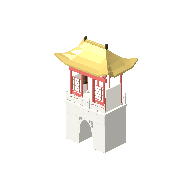
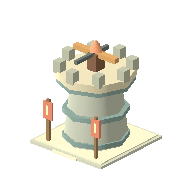
Complete v0.38 visual integration, shared terrain and UI, readable buildings and validation

Changed region(s): [[0.1562, 0.1875, 0.8438, 0.9062]]

diff --git a/XIAN_README.md b/XIAN_README.md
@@ -85,3 +85,12 @@ Credits/licenses are included in the APK and accessible from the sect panel. `na
 - Offline bases use connected perimeters, interior compartments, alternating orientations, paved approaches, lanterns and bamboo/rock scenery. Destroyed wall connections update locally to show breaches. Original local stars persist; the 12 maps have been rearranged.
 - Default village zoom increases from size 48 to 34 (about 41% larger on screen); practice zoom from 64 to 42 (about 52%). Human models increase from 1.6 to 2.15 world units. Practice supports one-finger drag to pan, two-finger pinch to zoom, tap-release deployment, mouse drag/wheel and a full-base overview button. These settings improve readability; they do not claim an exact pixel match to another game.
 - Validation: client wall topology/row preview tests, original touch regression, dedicated practice gesture tests, donor skeleton/weapon binding checks, actual-engine idle/attack captures, twelve-base battle simulations, and rolled-back server wall tests covering row charges, replay, rotation, movement, collision and atomic rejection. APK remains a debug-signed arm64 sideload build; physical-phone performance and game balance still need player feedback.
+
+## Unified village visuals 0.38
+
+- Integrates the earlier `xian-visual-overhaul` work (construction scaffolds, hit flashes, rubble, lanterns and banners) with a shared visual style for village and offline battle. Offline practice uses the village's single sun/environment to avoid double lighting.
+- Replaces the 256-piece ground checkerboard with a deterministic mipmapped grass/stone texture, framed trees and rocks. Immutable landscape geometry is merged by material; buildings, collisions, animated units and health bars remain separate.
+- Recolors Chinese roof/plaster/wood materials; adds consistent stone foundations, resource accents and level trim. Water storage, spirit crystal storage and the archer tower now have original, distinct silhouettes. All 14 menu thumbnails are rendered from the actual game models.
+- Shared Thai UI styling adds raised buttons, consistent disabled states and panel borders. Human units are larger, waiting disciples occasionally wobble, and village display units are spaced farther apart; dragons wait beside the courtyard. Display limits do not change the army count or combat units.
+- Construction progress uses the catalog duration and current building level, matching the existing server duration formula, instead of an invented estimated total. No backend/schema/economy changes.
+- Validation: Godot 4.4.1 import, smoke, auth, placement, wall, offline touch/simulation and donor animation regressions; actual OpenGL screenshots of village, mountain, placement, courtyard, offline battle and sword attacks. Physical Android FPS, battery use and touch feel still require a phone test. The APK remains an arm64 debug-signed sideload build.
